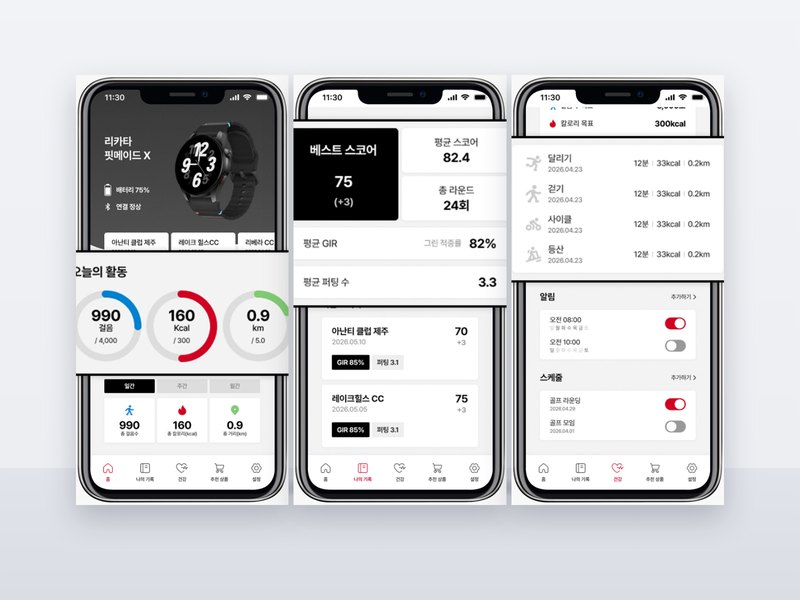
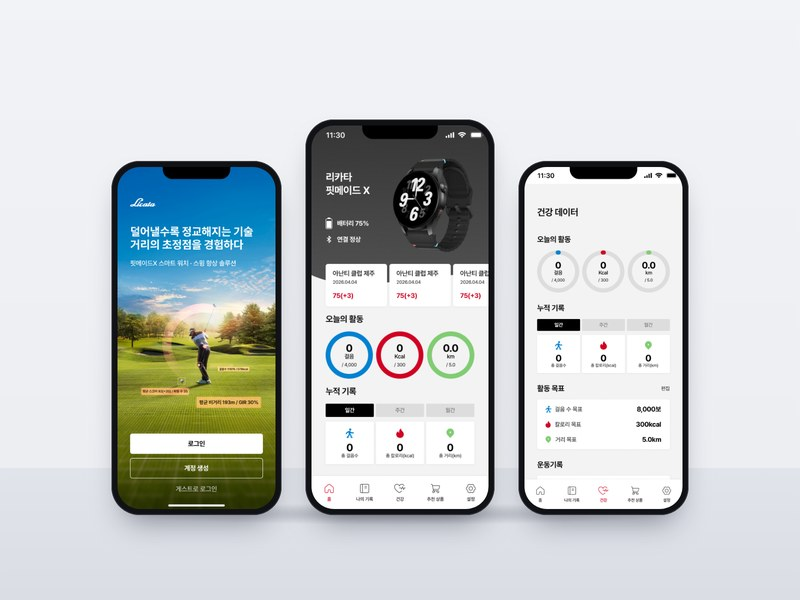
App design thumbnail: clean phone mockups from the Figma screens
Three frontal phones (start, home, health) using the original screens
from the Figma file, with no zoomed callouts. Cache-busted URLs.

Claude-Session: https://claude.ai/code/session_01BixZ5kMSwcUDHqdv3tGPjg

diff --git a/index.html b/index.html
@@ -220,7 +220,7 @@
   </div>
   <div class="proj-row">
     <a class="card pcard" href="work.html#web">
-      <div class="thumb"><img src="images/web/web-073.jpg" alt="리카타 핏메이드X 골프워치 앱 화면" loading="lazy" style="object-position:center"></div>
+      <div class="thumb"><img src="images/web/web-073.jpg?v=2" alt="리카타 핏메이드X 골프워치 앱 화면" loading="lazy" style="object-position:center"></div>
       <div class="pbody"><h3>웹사이트 UIUX 디자인</h3><span class="pmeta"><span class="works">74 works</span><span class="go" aria-hidden="true">→</span></span></div>
     </a>
     <a class="card pcard" href="work.html#detail">

diff --git a/data/works.js b/data/works.js
@@ -2,7 +2,7 @@ window.WORKS = {
  "web": [
   {
    "id": "web-073",
-   "thumb": "images/web/web-073.jpg",
+   "thumb": "images/web/web-073.jpg?v=2",
    "title": "리카타 핏메이드X 골프워치 앱 디자인",
    "link": "https://apps.apple.com/kr/app/fitmade-link/id6775663331",
    "link_android": "https://play.google.com/store/apps/details?id=com.fitmade.app",

diff --git a/work.html b/work.html
@@ -140,7 +140,7 @@
   </button>
 </div>
 
-<script src="data/works.js?v=5"></script>
+<script src="data/works.js?v=6"></script>
 <script src="assets/js/nav.js"></script>
 <script src="assets/js/work.js?v=4"></script>
 </body>
